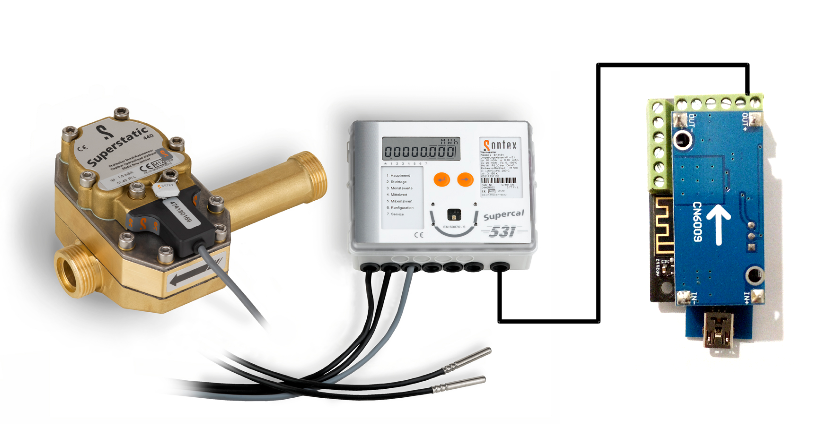
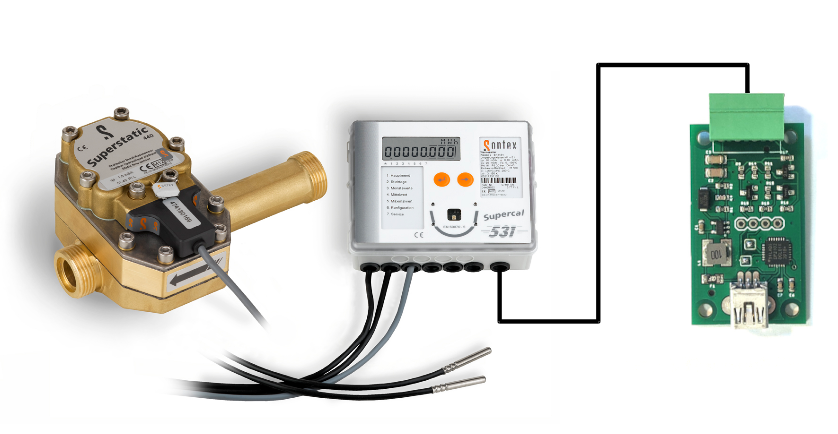
Built from e7667ded

Changed region(s): [[0.7446, 0.2097, 0.9928, 0.8387]]

diff --git a/applications/heatpump/index.html b/applications/heatpump/index.html
@@ -671,7 +671,7 @@ highlight active link...
 <ul>
   <li>A heat meter with a pulse output can be connected to either the EmonTx or the EmonPi, see:<br /> <a href="/setup/pulse-counting">+ Add Pulse Counting</a>
 <!--- Using the analog input on a EmonTx or EmonPi to interface with an analog voltage output from a Grundfos or Sika Vortex Flow Meter--></li>
-  <li>Using our <a href="https://shop.openenergymonitor.com/m-bus-to-uart-converter/">MBUS to UART</a> reader that plugs into a EmonPi or EmonBase. Setup and emonhub interfacer configuration documentation is available here: <a href="/integrations/emonhub-interfacers#mbus-reader-for-electric-and-heat-meters">MBUS Reader for Electric and Heat meters</a>.</li>
+  <li>Using our <a href="https://shop.openenergymonitor.com/m-bus-to-usb-converter/">MBUS to USB</a> reader that plugs into a EmonPi or EmonBase. Setup and emonhub interfacer configuration documentation is available here: <a href="/integrations/emonhub-interfacers#mbus-reader-for-electric-and-heat-meters">MBUS Reader for Electric and Heat meters</a>.</li>
   <li>Please read our guide on selecting the right heat meter, available in our heat pump monitor github repository here: <a href="https://github.com/openenergymonitor/HeatpumpMonitor/blob/master/selectingheatmeter.md">Github: Guide to selecting the right heat meter</a></li>
 </ul>
 

diff --git a/integrations/emonhub-interfacers/index.html b/integrations/emonhub-interfacers/index.html
@@ -702,7 +702,7 @@ highlight active link...
 
 <h3 id="-mbus-reader-for-electric-and-heat-meters"><a class="title-link" name="mbus-reader-for-electric-and-heat-meters" href="#mbus-reader-for-electric-and-heat-meters"></a> MBUS Reader for Electric and Heat meters</h3>
 
-<p>Many electricity and heat meters are available with meter bus (MBUS) outputs. Using an <a href="https://shop.openenergymonitor.com/m-bus-to-uart-converter">MBUS to UART converter</a>, these can be read from an emonPi or emonBase. For heat pumps, this provides a convenient way of monitoring the heat output, flow temperature, return temperature, flow rate and cumulative heat energy provided by the system.</p>
+<p>Many electricity and heat meters are available with meter bus (MBUS) outputs. Using an <a href="https://shop.openenergymonitor.com/m-bus-to-usb-converter/">MBUS to USB converter</a>, these can be read from an emonPi or emonBase. For heat pumps, this provides a convenient way of monitoring the heat output, flow temperature, return temperature, flow rate and cumulative heat energy provided by the system.</p>
 
 <p>1. Connect up the USB to MBUS converter to the MBUS output of the meter and plug the converter into a USB port on either the emonPi or emonBase.</p>
 
